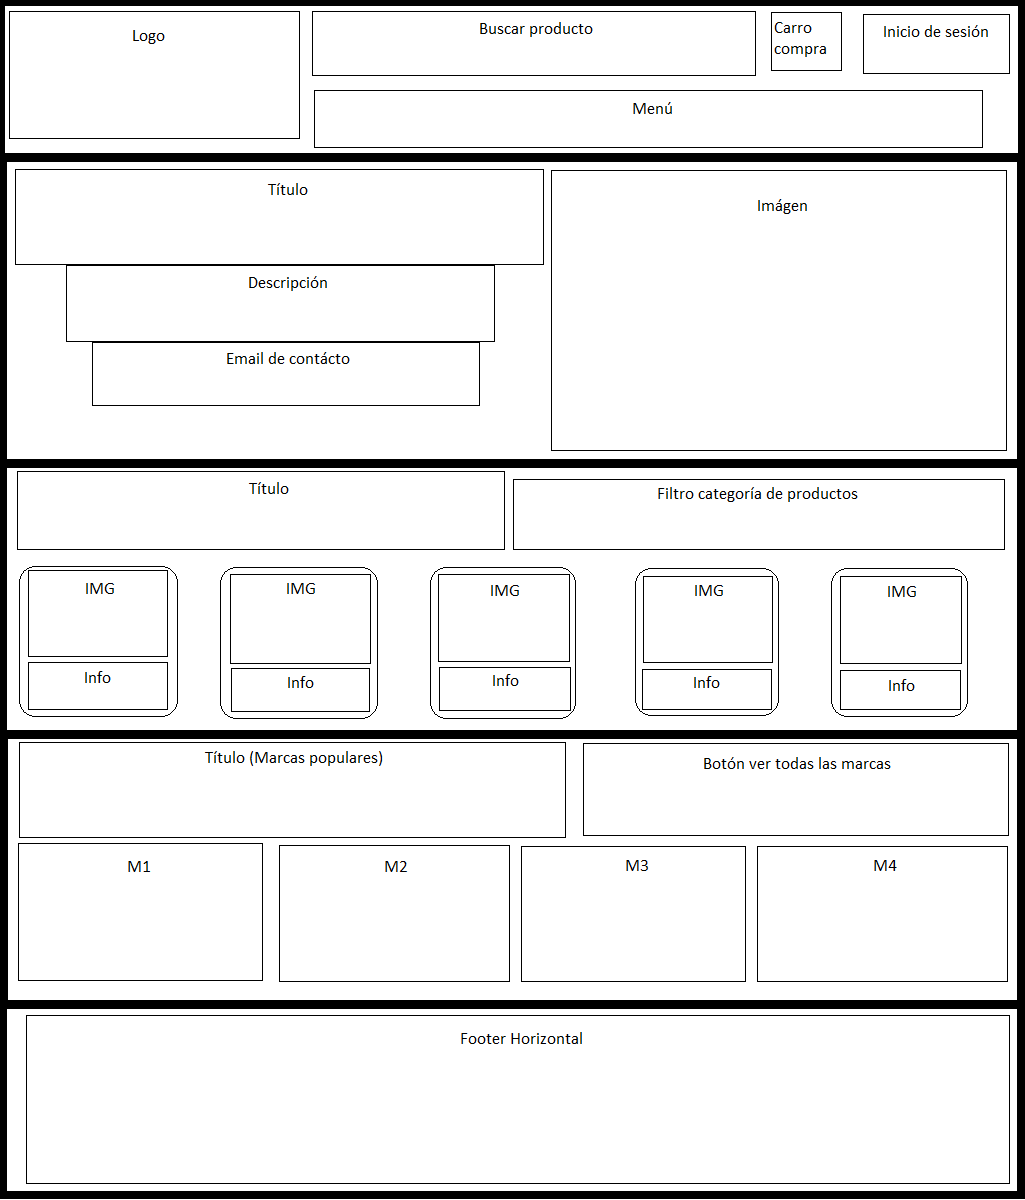
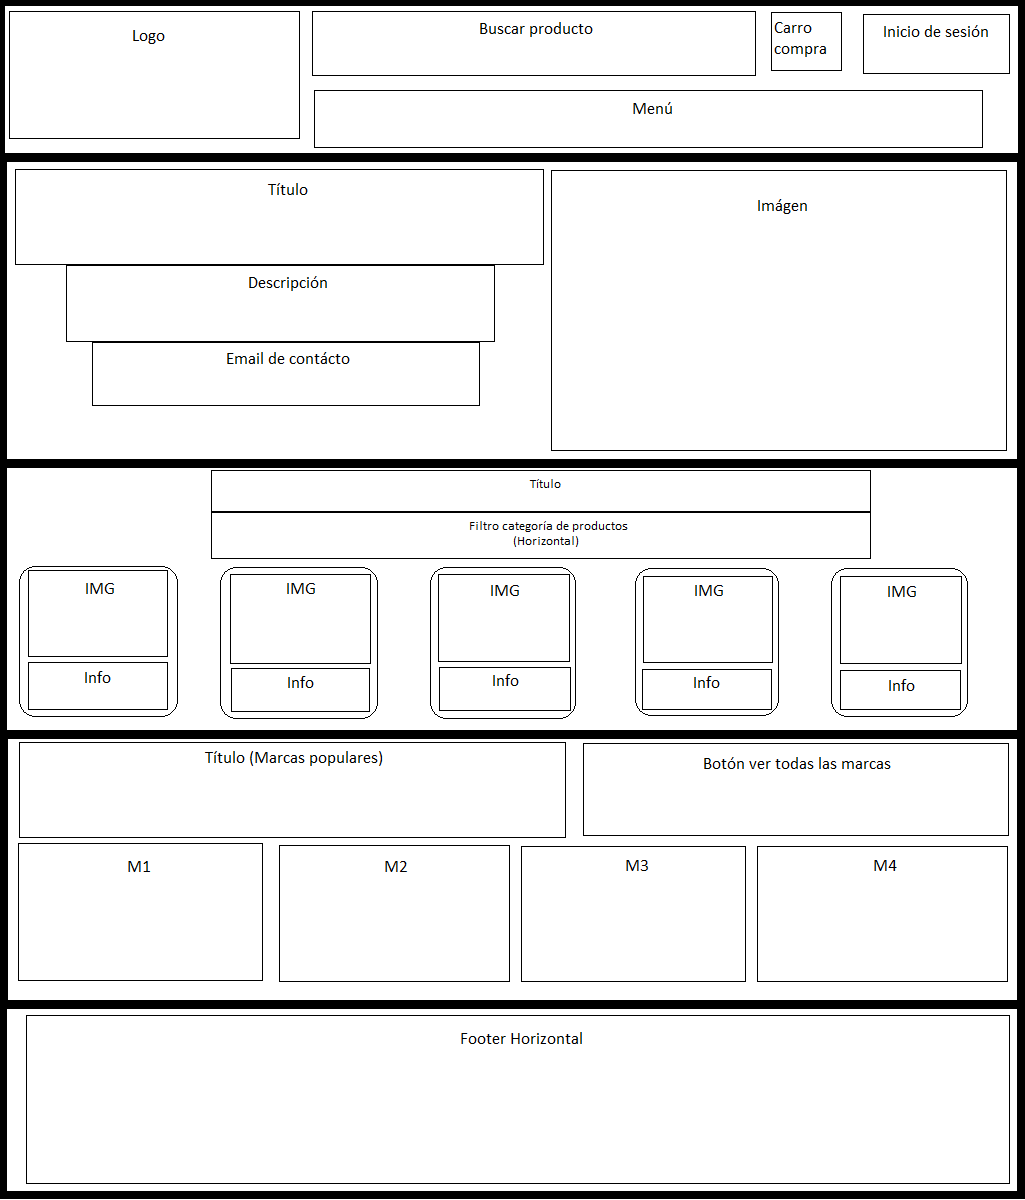
Adición catálogo y marcas

Changed region(s): [[0.6244, 0.4008, 0.8429, 0.4317], [0.4683, 0.4008, 0.6244, 0.4625], [0.2498, 0.4008, 0.281, 0.4317]]

diff --git a/index.html b/index.html
@@ -53,15 +53,15 @@
                     </div>
                     <p>
                         Te contactaremos a la brevedad. Aceptamos todo tipo de medio de pago.
-                        <a href=""> Conoce nuestros términos y condiciones</a>
+                        <a href=""> Conoce nuestros términos y condiciones.</a>
                     </p>
                 </form>
             </div>
             <img src="./img/374792-blackangel.jpg" alt="Imágen Jumbotron">
         </section>
         <section class="catálogo container-fluid">
-            <h2>Categorías de productos</h2>
-            <div class="c-productos container-fluid">
+            <h2>Categorías de productos y stock</h2>
+            <div class="categoriaDeProductos container-fluid">
                 <div class="categorias">
                     <a href="#"><img src="./img/efectos.png" alt=""></a>
                     <h3>Efectos</h3>
@@ -87,52 +87,70 @@
                     <h3>Home Studio</h3>
                 </div>
             </div>
-            <!-- sección con mayoría de Bootstrap -->
+
+            <!-- Sección Productos con mayoría de Bootstrap -->
+            
             <section class="productos container-fluid bg-transparent d-flex justify-content-center align-items-center h-100 min-vh-100">
                 <div class="container">
                     <div class="row gy-2">
                         <div class="col-lg-3 col-md-4">
-                            <div class="caja box bg-black h-100 d-flex p-4 flex-column text-white">
-                                <img src="./img/silversky.jpg" alt="">
+                            <div class="caja1 box bg-black h-100 d-flex p-4 flex-column text-white">
+                                <img src="./img/silversky.jpg" alt="" class="h-100">
                                 <h3 class="mt-3">PRS Silversky</h3>
-                                <p class="m-auto">Lorem ipsum dolor sit amet consectetur, adipisicing elit. Rerum numquam commodi libero corrupti, reiciendis, blanditiis fugit necessitatibus, odio amet quos illum quas praesentium voluptatum quia sed laboriosam incidunt unde neque?</p>
-                                <a href="#" class="btn btn-dark mt-auto">Más información</a>
+                                <p class="m-auto h-100">
+                                    La guitarra Silver Sky posee un cuerpo tipo Stratocaster, pero con algunas diferencias claves. A simple vista, la principal diferencia es el clavijero el cual es típico en las PRS. Esta guitarra posee 22 trastes, longitud de escala de 25.5”, su madera de brazo es arce, y su madera de diapasón es Palo de Rosa.
+                                </p>
+                                <a href="#" class="btn btn-dark mt-2">Comprar</a>
                             </div>
                         </div>
                         <div class="col-lg-3 col-md-4">
-                            <div class="caja box bg-light h-100 d-flex p-4 flex-column text-dark">
-                                <img src="./img/Dunlop-418-Tortex-Standard-0-73-12-Pack-1024x1024.jpg" alt="">
+                            <div class="caja2 box bg-light h-100 d-flex p-4 flex-column text-dark">
+                                <img src="./img/Dunlop-418-Tortex-Standard-0-73-12-Pack-1024x1024.jpg" alt="" class="h-100">
                                 <h3 class="mt-3">Dunlop 418 Tortex Standard 0.73</h3>
-                                <p class="m-auto">Lorem ipsum dolor sit amet consectetur adipisicing elit. Vel, similique reiciendis placeat ratione molestiae quae. Quisquam, quidem? Temporibus sequi obcaecati molestias cupiditate numquam animi natus sunt, ea, veniam voluptate repudiandae!</p>
-                                <a href="#" class="btn btn-dark mt-auto">Más información</a>
+                                <p class="m-auto h-100">
+                                    Las uñetas Tortex son muy duraderas, con gran memoria y la cantidad justa de flexibilidad para un ataque rápido y fluido que es brillante y nítido. Ya sea que estés tocando con un poder abrasador o pasajes acústicos, el atractivo de Tortex como un pincel sonoro es universal.
+                                </p>
+                                <a href="#" class="btn btn-dark mt-2">Comprar</a>
                             </div>
                         </div>
                         <div class="col-lg-3 col-md-4">
-                            <div class="caja box bg-black h-100 d-flex p-4 flex-column text-white">
-                                <img src="./img/L20T-112_Main.png" alt="">
+                            <div class="caja3 box bg-black h-100 d-flex p-4 flex-column text-white">
+                                <img src="./img/L20T-112_Main.png" alt="" class="h-100">
                                 <h3 class="mt-3">Laney Lionheart l20t-112</h3>
-                                <p class="m-auto">Lorem ipsum, dolor sit amet consectetur adipisicing elit. Nisi placeat nam cupiditate est quasi dignissimos facilis corrupti accusamus deleniti, sed debitis quos optio! Iure impedit exercitationem, laborum consectetur et quibusdam.</p>
-                                <a href="#" class="btn btn-dark mt-auto">Más información</a>
+                                <p class="m-auto h-100">
+                                    Diseñado y fabricado con orgullo en Gran Bretaña. El Lionheart L20T-112 es un combo de válvulas Clase 'A' de 20 watt, que brinda tonos de guitarra limpios, nítidos, dinámicos y abiertos. Sea cual sea tu estilo, toca con un Lionheart y te sorprenderá cómo reacciona al tocarlo.                                    
+                                </p>
+                                <a href="#" class="btn btn-dark mt-2">Comprar</a>
                             </div>
                         </div>
                         <div class="col-lg-3 col-md-4">
-                            <div class="caja box bg-light h-100 d-flex p-4 flex-column text-dark">
-                                <img src="./img/179518-800-auto.png" alt="">
-                                <h3 class="mt-3">Cable Instrumento Planet Waves Classic Plug/L Plug</h3>
-                                <p class="m-auto">Lorem ipsum dolor sit, amet consectetur adipisicing elit. Quam ea non excepturi voluptatibus nobis, repellat debitis, facilis blanditiis ut omnis voluptatem architecto? Dolore, at voluptates veniam quod cum exercitationem iusto.</p>
-                                <a href="#" class="btn btn-dark mt-auto">Más información</a>
+                            <div class="caja4 box bg-light h-100 d-flex p-4 flex-column text-dark">
+                                <img src="./img/179518-800-auto.png" alt="" class="h-100">
+                                <h3 class="mt-3">Cable Planet Waves Classic Plug/L Plug</h3>
+                                <p class="m-auto h-100">
+                                    Los cables para instrumentos de la serie Classic de D'Addario ofrecen lo último en calidad y valor. Estos cables utilizan conductores de cobre ultrapuros y libres de oxígeno para una baja capacitancia y un tono puro. Elimina prácticamente todo el ruido de manipulación.
+                                </p>
+                                <a href="#" class="btn btn-dark mt-2">Comprar</a>
                             </div>
                         </div>
                     </div>
                 </div>
             </section>
         </section>
-        <section>
-
+        <section class="marcas container-fluid">
+            <div>
+                <h2>Marcas Populares</h2>
+                <button type="button">Ver todas nuestras marcas</button>
+            </div>
+            <div class="imagenGrid container-fluid">
+                <img src="./img/Marcas/prs-logo.png" alt="PRS Logo">
+                <img src="./img/Marcas/Daddario_logo.png" alt="Daddario Logo">
+                <img src="./img/Marcas/dunlop-logo.png" alt="Dunlop Logo">
+                <img src="./img/Marcas/laney-logo.png" alt="Laney Logo">
+            </div>
         </section>
     </main>
     <footer>
-
     </footer>
     <script src="https://kit.fontawesome.com/c6b5cc67c4.js" crossorigin="anonymous"></script>
     <script src="https://cdn.jsdelivr.net/npm/bootstrap@5.2.0/dist/js/bootstrap.bundle.min.js" integrity="sha384-A3rJD856KowSb7dwlZdYEkO39Gagi7vIsF0jrRAoQmDKKtQBHUuLZ9AsSv4jD4Xa" crossorigin="anonymous"></script>

diff --git a/style/estilo.css b/style/estilo.css
@@ -308,6 +308,8 @@ main {
 /* Catálogo */
 
 .catálogo {
+    border-top: 2px solid #556ff7;
+    margin-top: 15px;
     padding: 0;
     box-sizing: border-box;
     display: grid;
@@ -323,30 +325,149 @@ main {
     font-size: 2.5rem;
     text-align: center;
 }
-.catálogo > .c-productos {
+.catálogo > .categoriaDeProductos {
     grid-area: b;
     margin: 15px 0 15px 0;
     display: flex;
     flex-direction: column;
     justify-content: space-evenly;
-    align-items: center;
-    
+    align-items: center;   
 }
-.catálogo > .c-productos .categorias {
+.catálogo > .categoriaDeProductos .categorias {
     display: flex;
     flex-direction: column;
     align-items: center;
 }
-.catálogo > .c-productos .categorias > h3 {
-    color: #ffffff;
-}
-.catálogo img {
+.catálogo > .categoriaDeProductos .categorias img {
     width: 150px;    
 }
+.catálogo > .categoriaDeProductos .categorias > h3 {
+    color: #ffffff;
+}
+
+/* Sección Productos */
+
 .catálogo > .productos {
     grid-area: c;
 }
-.catálogo > .productos .caja {
-    border: 1px solid #556ff7;
+.catálogo > .productos .caja1, .caja2, .caja3, .caja4  {
+    border: 2px solid #556ff7;
+    border-radius: 15px;
+}
+.catálogo > .productos .caja1 > img {
+    width: 100%;
+    position: relative;
+    margin: auto;
+    object-fit: contain;
+}
+.catálogo > .productos .caja2 > img {
+    width: 70%;
+    position: relative;
+    margin: auto;
+    object-fit: contain;
+}
+.catálogo > .productos .caja3 > img {
+    width: 90%;
+    position: relative;
+    margin: auto;
+    object-fit: contain;
+}
+.catálogo > .productos .caja4 > img {
+    width: 70%;
+    position: relative;
+    margin: auto;
+    object-fit: contain;
+}
+.catálogo > .productos h3 {
+    text-align: center;
+    font-size: 1.5rem;
+}
+.catálogo > .productos p {
+    font-size: 1rem;
+    text-align: justify;
+}
+.catálogo > .productos a {
+    border: 2px solid #556ff7;
 }
 
+@media screen and (min-width: 768px) {
+    .catálogo > h2 {
+        font-size: 3rem;
+        margin: 20px;
+    }
+    .catálogo > .categoriaDeProductos {
+        margin: 25px 0 25px 0;
+        flex-direction: row;
+        flex-wrap: wrap; 
+    }
+}
+
+/* Sección de Marcas */
+
+.marcas {
+    padding: 0;
+    border-top: 2px solid #556ff7;
+    margin-top: 15px;
+}
+.marcas > div:first-child {
+    display: flex;
+    flex-direction: column;
+    justify-content: center;
+    align-items: center;
+}
+.marcas > div > h2 {
+    color: #ffffff;
+    margin-top: 15px;
+    font-size: 2.5rem;
+    text-align: center;
+}
+.marcas > div > button {
+    border: 2px solid #556ff7;
+    background-color: #28364e;
+    margin-top: 15px;
+    margin-bottom: 8px;
+    color: #556ff7;
+    font-size: 1.2rem;
+}
+.marcas > .imagenGrid {
+    --gap: 16px;
+    --num-cols: 1;
+    --row-height: 150px;
+    box-sizing: border-box;
+    padding: var(--gap);
+    display: grid;
+    grid-template-columns: repeat(var(--num-cols), 1fr);
+    grid-auto-rows: var(--row-height);
+    gap: var(--gap);
+}
+.marcas > .imagenGrid > img {
+    width: 100%;
+    height: 100%;
+    object-fit: contain;
+    background-color: #556ff7;
+    border-radius: 15px;
+    border: 1px solid #ffffff;
+}
+
+@media screen and (min-width: 768px) {
+    .marcas > div:first-child {
+        flex-direction: row;
+        justify-content: space-evenly;
+        align-items: center;
+    }
+    .marcas > div > h2 {
+        font-size: 3rem;
+        border-right: 4px solid #556ff7;
+        border-left: 4px solid #556ff7;
+        padding-right: 10px;
+        padding-left: 10px;
+    }
+    .marcas > div > button {
+        font-size: 1.4rem;
+    }
+    .marcas > .imagenGrid {
+        --gap: 16px;
+        --num-cols: 4;
+        --row-height: 200px;
+    }
+}
